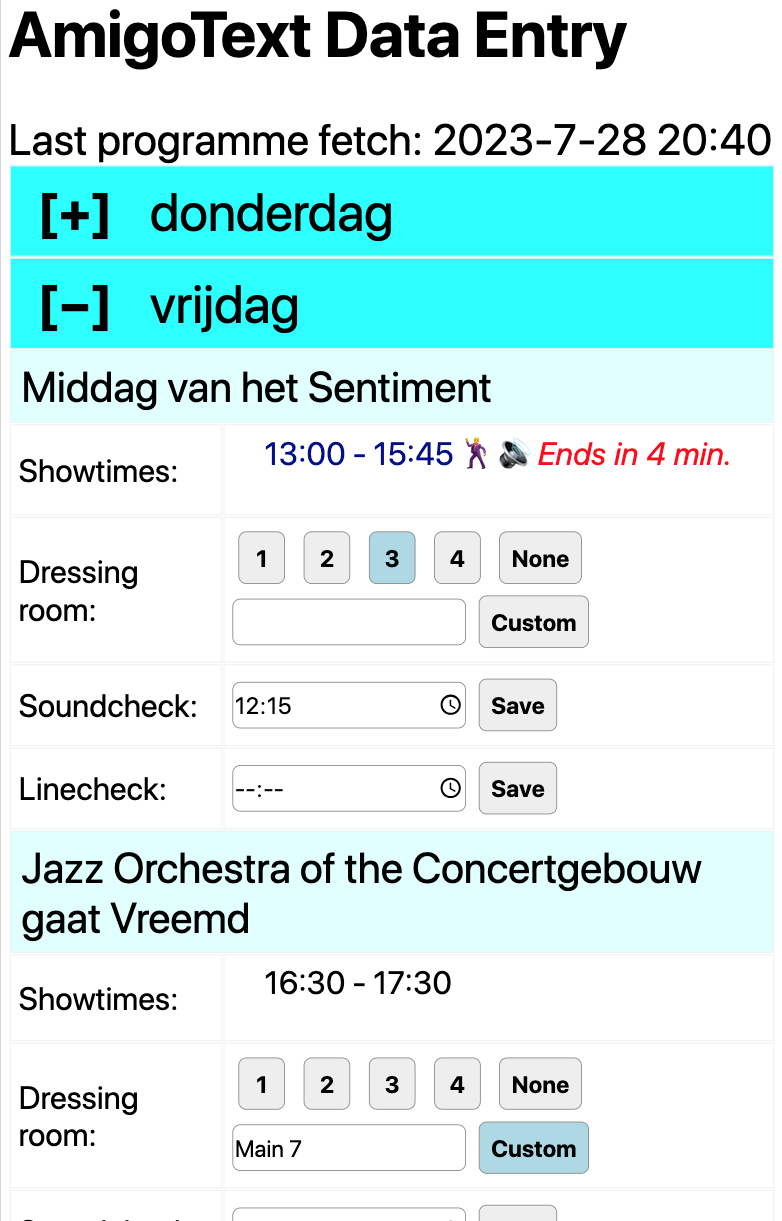
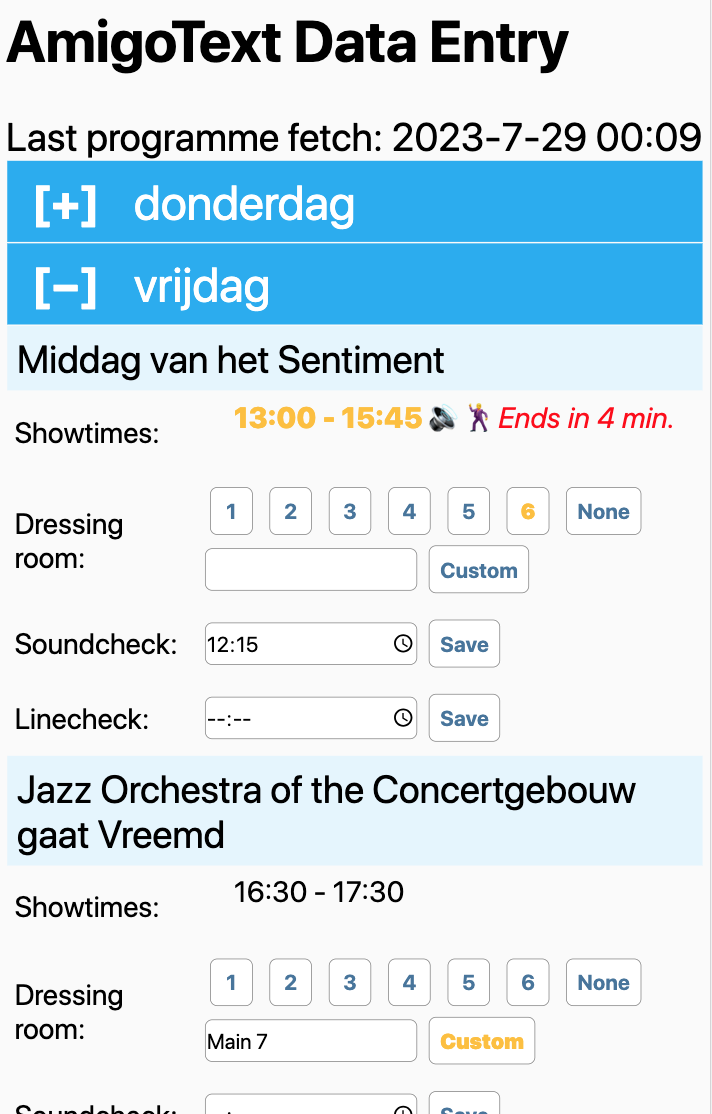
Increase dressing room buttons, new color scheme, dark mode (#44)
* Increase dressing room buttons to 6

* Add link to icons8

* New color scheme

* Remove table borders, add dark mode

* Minor improvement, update screenshot

diff --git a/static/index.css b/static/index.css
@@ -1,6 +1,11 @@
+:root {
+    --color-active: #FDC02F;
+}
+
 body {
     font-size: 32pt;
-    font-family: system-ui, -apple-system, Segoe UI, Roboto, Helvetica, Arial, sans-serif, "Apple Color Emoji", "Segoe UI Emoji"
+    font-family: system-ui, -apple-system, Segoe UI, Roboto, Helvetica, Arial, sans-serif, "Apple Color Emoji", "Segoe UI Emoji";
+    background-color: #FAFAFA;
 }
 
 h1 {
@@ -22,15 +27,20 @@ button {
     border-radius: 10px;
     border-width: 1px;
     margin: 0.25em 0.25em;
-    background-color: #eeeeee;
+    background-color: #ffffff;
     font-family: inherit;
     font-size: 22pt;
     font-weight: bolder;
-    color: inherit;
+    color: #46749C;
+}
+
+button.day {
+    color: #ffffff;
 }
 
 button.selected {
-    background-color: lightblue;
+    color: var(--color-active);
+    font-weight: 900;
 }
 
 input {
@@ -48,9 +58,7 @@ input {
 td {
     font-family: inherit;
     font-size: 40;
-    border-style: solid;
-    border-color: #eeeeee;
-    border-width: 1px;
+    border-style: none;
     padding: 0.25em;
 }
 
@@ -68,7 +76,7 @@ tr.act-name {
 }
 
 td.act-name {
-    background-color: lightcyan;
+    background-color: #E4F5FD;
     font-size: 40pt;
 }
 
@@ -77,13 +85,15 @@ tr.day-contents {
 }
 
 td.day {
-    background-color: cyan;
+    color: #ffffff;
+    background-color: #1EAAF1;
     font-size: 50pt;
     padding: 0.25em 0em;
 }
 
 li.showtime.started {
-    color: darkblue;
+    color: var(--color-active);
+    font-weight: 800;
 }
 
 li.showtime.over {
@@ -100,6 +110,7 @@ div.showtime-annotation.visible, div.time-left {
 }
 
 div.time-left {
+    font-weight: normal;
     font-style: italic;
     color: red;
 }
@@ -144,4 +155,37 @@ div.dressing-room-loader {
 img.dressing-room-loader {
     height: 80;
     margin: auto auto;
+}
+
+@media (prefers-color-scheme: dark) {
+    body {
+        color: #E1E1E1;
+        background-color: #111111;
+    }
+
+    td.day {
+        background-color: #111E24;
+    }
+
+    td.act-name {
+        background-color: #1C2D36;
+    }
+
+    button {
+        background-color: #1C1C1C;
+    }
+
+    input {
+        color: inherit;
+        background-color: #1C1C1C;
+    }
+
+    div.dressing-room-loader {
+        background-color: #111111;
+    }
+
+    img.dressing-room-loader {
+        -webkit-filter: invert(1);
+        filter: invert(1);
+    }
 }

diff --git a/templates/index.html b/templates/index.html
@@ -64,7 +64,7 @@
                     <td class="act-detail-header">Dressing room: </td>
                     <td>
                         <div class="dressing-room-buttons">
-                            {% for room in ["1", "2", "3", "4", "None"] %}
+                            {% for room in ["1", "2", "3", "4", "5", "6", "None"] %}
                                 <button
                                     onclick="setDressingRoom('{{ key }}', '{{ room }}')"
                                     class="dressing-room act-{{ key }}"
@@ -125,7 +125,8 @@
         {% endfor %}
         </tbody>
     </table>
-    Version: {{ version }}
+    Version: {{ version }}<br />
+    Loading icon by <a href="https://icons8.com">icons8</a>.
 
     <script src="{{ url_for('static', filename="index.js") }}"></script>
 </body>
